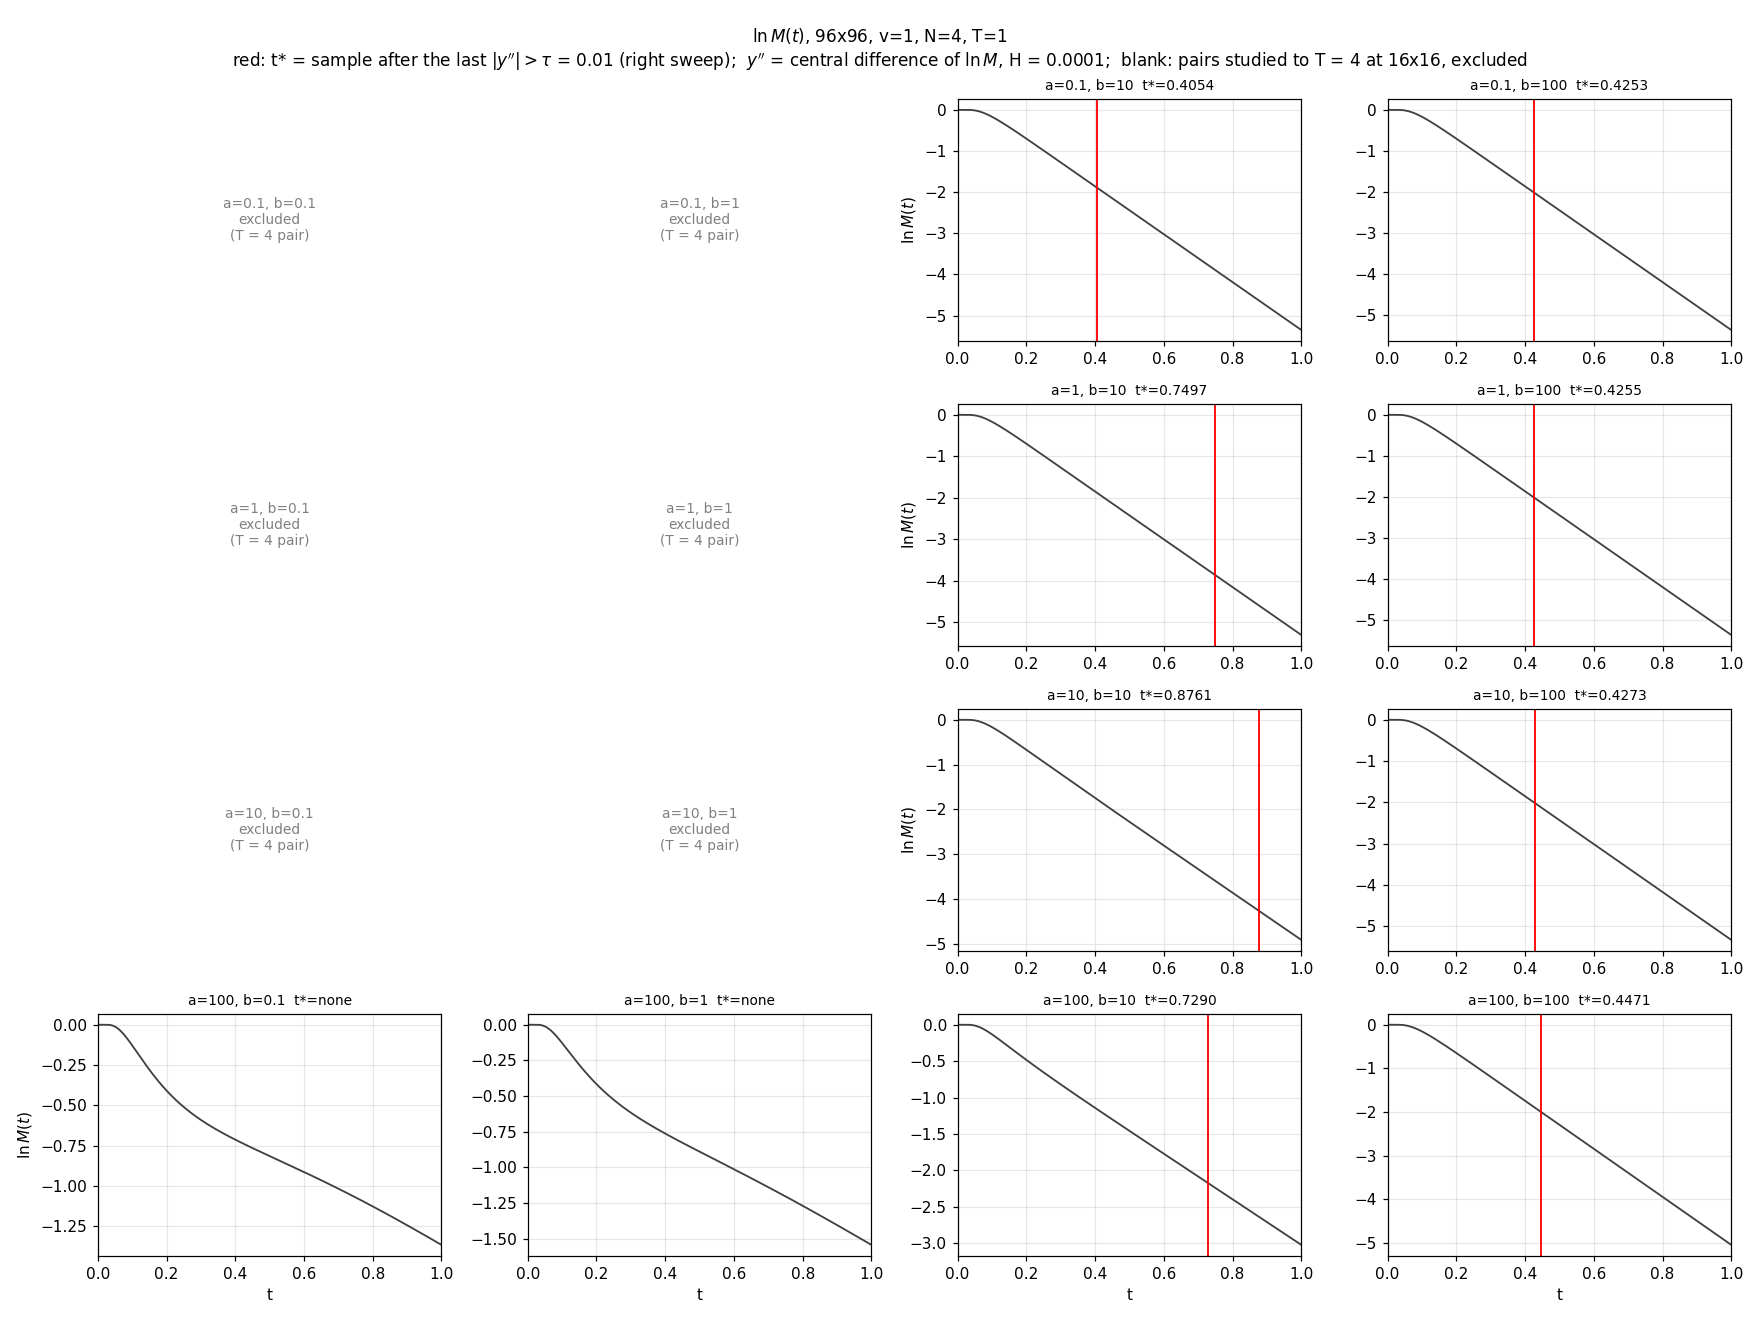
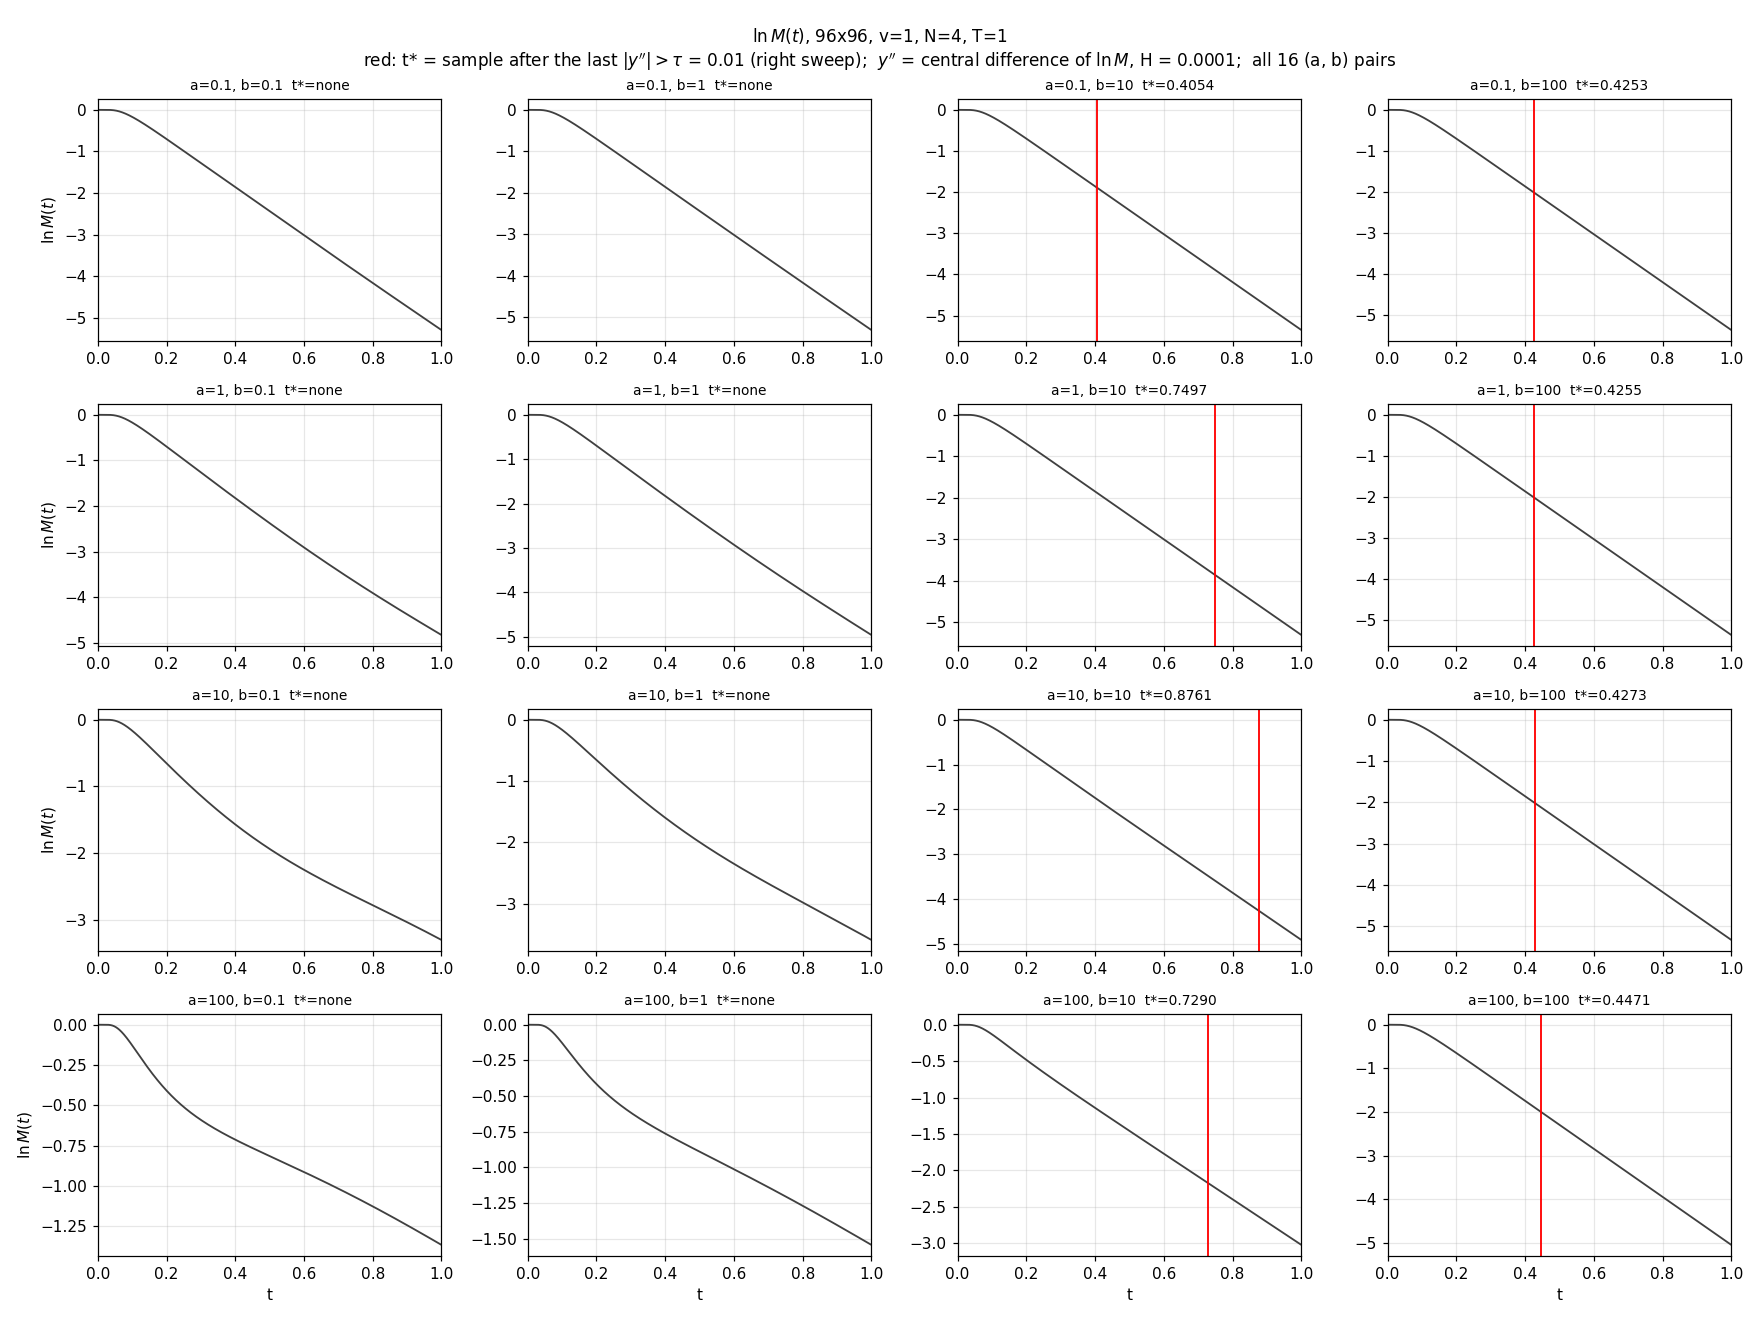
96x96 tau = 0.01 study: all sixteen pairs, kappa criterion, step size shown
Every figure and table now covers all sixteen (a, b) pairs; the separate
additional_pairs/ folder duplicated six of them and is removed.

kappa_criterion/ adds the kappa = |y''|/y'^2 rule at the same tau = 0.01,
with the same central differences (H ~ 1e-4) and right sweep: kappa(t)
itself (the function deciding the criterion) at two y-windows, ln M with
t*, and the t* table including whether >= 0.1 of run follows t*.

Finite-difference plots (y'' and kappa) state the step h = 1.0005e-4
(861 samples x the solver's 5 dt spacing) in the title and in each panel.
README rewritten for the three criteria; scripts default to all pairs.

Claude-Session: https://claude.ai/code/session_01QVUXHCUyhrdRWbdooaMMLs

diff --git a/results/2026-10-07_ab-grid-96x96_tau0.01/scripts/kappa_96.py b/results/2026-10-07_ab-grid-96x96_tau0.01/scripts/kappa_96.py
@@ -1,0 +1,165 @@
+"""The kappa criterion on the 96x96 (a, b) grid, from job 0b8d4022's saved series.
+
+    python kappa_96.py [tau]          default tau = 0.01
+
+kappa(t) = |y''| / y'^2 with y = ln M: the rate at which the local e-folding
+time 1/lambda drifts (lambda = -y'). Same derivative approximation as the rest
+of this study -- central differences across s samples, H = s * h_sample ~ 1e-4:
+
+    y'  = (y[i+s] - y[i-s]) / (2H),   y'' = (y[i+s] - 2 y[i] + y[i-s]) / H^2
+
+and the same right sweep: t* is the sample just after the last kappa > tau,
+so kappa <= tau from t* to the end. (The criterion as used 2026-09-28 to
+2026-10-05 also required at least 0.1 of run after t*; that is reported here as
+a column, not applied.) All sixteen pairs, T = 1.
+"""
+import os, sys
+R = "N:/work/Intracellular-Transport-Computational-Modeling"
+os.environ["MPLBACKEND"] = "Agg"
+sys.path[:0] = [R + "/src/intracellular_transport", R + "/src"]
+
+import numpy as np
+import pandas as pd
+import matplotlib.pyplot as plt
+from launch_functions import launch as L
+
+TAU = float(sys.argv[1]) if len(sys.argv) > 1 else 1e-2
+SP = os.path.dirname(os.path.abspath(__file__))
+OUT = os.path.join(R, "results", f"2026-10-07_ab-grid-96x96_tau{TAU:g}", "kappa_criterion")
+os.makedirs(OUT, exist_ok=True)
+
+G, MCF, T, HOLD = 96, 5, 1.0, 0.1
+A = B = [0.1, 1.0, 10.0, 100.0]
+h = MCF * L.num.compute_dT(G, G)
+s = max(1, int(round(L.CHAR_TIME_DIFF_SPACING / h)))
+H = s * h
+print(f"sample h={h:.4g}  stride s={s}  H={H:.6g}  tau={TAU:g}")
+
+data, rows = {}, []
+for a in A:
+    for b in B:
+        m = np.fromfile(os.path.join(SP, f"tm_a{a:g}_b{b:g}.dat"), dtype=np.float64)
+        n = m.size
+        t = np.arange(n) * h
+        y = np.log(m)
+        d1 = (y[2 * s:] - y[:-2 * s]) / (2 * H)
+        d2 = (y[2 * s:] - 2 * y[s:-s] + y[:-2 * s]) / H ** 2
+        with np.errstate(divide="ignore", invalid="ignore"):
+            kap = np.abs(d2) / d1 ** 2
+        judged = np.arange(s, n - s)
+        over = ~(kap <= TAU)                 # non-finite (y' = 0 at the start) counts as over
+        if over[-1]:
+            ts = None
+        else:
+            k = judged[np.nonzero(over)[0][-1] + 1] if over.any() else judged[0]
+            ts = float(t[k])
+        mstar = None if ts is None else float(m[int(round(ts / h))])
+        full = np.full(n, np.nan)
+        full[s:-s] = kap
+        keep = slice(0, None, s)
+        data[(a, b)] = (t[keep], y[keep], full[keep], ts)
+        rows.append(dict(a=a, b=b, t_star=ts, m_star=mstar, M_at_T=float(m[-1]),
+                         kappa_at_T=float(kap[-1]),
+                         hold_ge_0p1=None if ts is None else bool(T - ts >= HOLD),
+                         tau=TAU))
+        print(f"  a={a:g} b={b:g}: t*={'none' if ts is None else f'{ts:.6f}'}  "
+              f"kappa(T)={kap[-1]:.3g}", flush=True)
+
+pd.DataFrame(rows).to_csv(os.path.join(OUT, f"t_star_kappa_96x96_tau{TAU:g}.csv"), index=False)
+
+fmt = lambda v, f: "none" if v is None else format(v, f)
+cells = [[f"{r['a']:g}", f"{r['b']:g}", fmt(r["t_star"], ".6f"), fmt(r["m_star"], ".6e"),
+          f"{r['M_at_T']:.6e}", f"{r['kappa_at_T']:.3g}",
+          "-" if r["hold_ge_0p1"] is None else ("yes" if r["hold_ge_0p1"] else "no")]
+         for r in rows]
+fig, ax = plt.subplots(figsize=(11, 0.4 * len(cells) + 1.4))
+ax.axis("off")
+tb = ax.table(cellText=cells, colLabels=["a", "b", "t*", "m* = M(t*)", "M(T=1)",
+                                          "kappa(T)", ">= 0.1 run after t*"],
+              loc="center", cellLoc="center")
+tb.auto_set_font_size(False)
+tb.set_fontsize(10)
+tb.scale(1, 1.35)
+ax.set_title(rf"t* by $\kappa = |y''|/y'^2 \leq \tau$ = {TAU:g} (right sweep) -- 96x96, v=1, "
+             f"N=4, T=1 (job 0b8d4022), H={H:.3g}", fontsize=10)
+fig.tight_layout()
+fig.savefig(os.path.join(OUT, f"t_star_table_kappa_96x96_tau{TAU:g}.png"), dpi=130)
+plt.close(fig)
+
+
+def title(k):
+    ts = data[k][3]
+    return f"a={k[0]:g}, b={k[1]:g}  t*=" + ("none" if ts is None else f"{ts:.4f}")
+
+
+def mark(ax, k):
+    if data[k][3] is not None:
+        ax.axvline(data[k][3], color="red", lw=1.2)
+
+
+def step_label(ax):
+    """The finite-difference step, in the panel corner."""
+    ax.text(0.98, 0.04, f"h = {H:.4e}", transform=ax.transAxes, ha="right", va="bottom",
+            fontsize=7, color="0.2",
+            bbox=dict(boxstyle="round,pad=0.2", fc="white", ec="0.7", alpha=0.85))
+
+
+STEP_LINE = (rf"finite-difference step h = {H:.6e}  (= {s} samples $\times$ {h:.6e}, the "
+             rf"solver's sample spacing $5\,\Delta t$)")
+
+
+def kappa_panel(ax, k, top):
+    t, _, kap, _ = data[k]
+    ax.plot(t, kap, lw=1.0, color="C1")
+    ax.axhline(TAU, color="0.3", lw=0.9, ls=":")
+    ax.set_ylim(0, top)
+    mark(ax, k)
+    step_label(ax)
+
+
+def lnm_panel(ax, k, zoom):
+    t, y, _, ts = data[k]
+    ax.plot(t, y, lw=1.2, color="0.25")
+    mark(ax, k)
+    if zoom and ts is not None:
+        yc = float(np.interp(ts, t, y))
+        ax.set_xlim(ts - 0.15, ts + 0.15)
+        ax.set_ylim(yc - 0.5, yc + 0.5)
+        ax.axhline(yc, color="red", lw=0.6, ls=":")
+    elif zoom:
+        ax.text(0.5, 0.92, "no t*: full view", ha="center", va="top", fontsize=8,
+                color="0.4", transform=ax.transAxes)
+
+
+NOTE = (rf"red: t* = sample after the last $\kappa > \tau$ = {TAU:g} (right sweep);  "
+        rf"$\kappa = |y''|/y'^2$, $y = \ln M$, central differences, H = {H:.3g};  all 16 pairs")
+figs = [(f"kappa_96x96_tau{TAU:g}_ylim0.1.png", r"$\kappa(t)$",
+         lambda ax, k: kappa_panel(ax, k, 0.1), r"  (y in [0, 0.1]; dotted = $\tau$)", True),
+        (f"kappa_96x96_tau{TAU:g}_ylim{3 * TAU:g}.png", r"$\kappa(t)$",
+         lambda ax, k: kappa_panel(ax, k, 3 * TAU), rf"  (y in [0, {3 * TAU:g}]; dotted = $\tau$)", True),
+        (f"lnM_kappa_96x96_tau{TAU:g}.png", r"$\ln M(t)$",
+         lambda ax, k: lnm_panel(ax, k, False), "", True),
+        (f"lnM_kappa_96x96_tau{TAU:g}_zoom.png", r"$\ln M(t)$",
+         lambda ax, k: lnm_panel(ax, k, True),
+         r"  (window: t* $\pm$ 0.15, $\ln M(t^*)$ $\pm$ 0.5)", False)]
+for name, ylab, panel, extra, share in figs:
+    fig, axes = plt.subplots(4, 4, figsize=(16, 12), sharex=share)
+    for i, a in enumerate(A):
+        for j, b in enumerate(B):
+            ax = axes[i, j]
+            ax.set_xlim(0, T)
+            panel(ax, (a, b))
+            ax.grid(True, alpha=0.3)
+            ax.set_title(title((a, b)), fontsize=9)
+            if i == 3 or not share:
+                ax.set_xlabel("t")
+            if j == 0:
+                ax.set_ylabel(ylab)
+    head = f"{ylab}, 96x96, v=1, N=4, T=1{extra}"
+    if "kappa_96x96" in name:
+        head += "\n" + STEP_LINE
+    fig.suptitle(f"{head}\n{NOTE}", fontsize=11)
+    fig.tight_layout()
+    fig.savefig(os.path.join(OUT, name), dpi=110)
+    plt.close(fig)
+print(OUT)

diff --git a/results/2026-10-07_ab-grid-96x96_tau0.01/scripts/tau_mask_96.py b/results/2026-10-07_ab-grid-96x96_tau0.01/scripts/tau_mask_96.py
@@ -35,15 +35,19 @@ EXCLUDED = {(10.0, 0.1), (10.0, 1.0), (1.0, 0.1), (1.0, 1.0), (0.1, 0.1), (0.1, 
 
 # "additional" mode: the six pairs studied to T = 4 at 16x16 instead, into a
 # subfolder; the ten main pairs become the blank panels.
-MODE = next((x for x in sys.argv[1:] if x in ("main", "additional")), "main")
+# "all" (default): all sixteen pairs. "main" / "additional": the earlier split.
+MODE = next((x for x in sys.argv[1:] if x in ("all", "main", "additional")), "all")
 T4_PAIRS = set(EXCLUDED)
 if MODE == "additional":
     EXCLUDED = {(x, z) for x in A for z in B} - T4_PAIRS
     OUT = os.path.join(SUB_ROOT, "additional_pairs", SUB_LEAF)
     os.makedirs(OUT, exist_ok=True)
+if MODE == "all":
+    EXCLUDED = set()          # every pair, no blank panels
 BLANK_LABEL = ("excluded\n(T = 4 pair)" if MODE == "main"
                else "in parent folder\n(main T = 1 pair)")
-BLANK_NOTE = ("blank: pairs studied to T = 4 at 16x16, excluded" if MODE == "main"
+BLANK_NOTE = ("all 16 (a, b) pairs" if MODE == "all"
+              else "blank: pairs studied to T = 4 at 16x16, excluded" if MODE == "main"
               else "the six pairs studied to T = 4 at 16x16 (this run: T = 1); blank: main pairs")
 
 h = MCF * L.num.compute_dT(G, G)
@@ -120,6 +124,17 @@ def lnm_zoom_panel(ax, k, clip):
     ax.axhline(yc, color="red", lw=0.6, ls=":")
 
 
+def step_label(ax):
+    """The finite-difference step, in the panel corner."""
+    ax.text(0.98, 0.04, f"h = {H:.4e}", transform=ax.transAxes, ha="right", va="bottom",
+            fontsize=7, color="0.2",
+            bbox=dict(boxstyle="round,pad=0.2", fc="white", ec="0.7", alpha=0.85))
+
+
+STEP_LINE = (rf"finite-difference step h = {H:.6e}  (= {s} samples $\times$ {h:.6e}, the "
+             rf"solver's sample spacing $5\,\Delta t$)")
+
+
 def d2_panel(ax, k, lim):
     t, _, q, ts = data[k]
     ax.plot(t, q, lw=1.0, color="C2")
@@ -130,6 +145,7 @@ def d2_panel(ax, k, lim):
         ax.set_ylim(-lim, lim)
         for v in (-TAU, TAU):
             ax.axhline(v, color="0.4", lw=0.8, ls=":")
+    step_label(ax)
 
 
 NOTE = (rf"red: t* = sample after the last $|y''| > \tau$ = {TAU:g} (right sweep);  "
@@ -167,7 +183,10 @@ for name, ylab, panel, lim, extra in figs:
             if j == 0 or (i, j - 1) in [(A.index(x), B.index(y)) for x, y in EXCLUDED]:
                 ax.set_ylabel(ylab)
             ax.tick_params(labelbottom=True)
-    fig.suptitle(f"{ylab}, 96x96, v=1, N=4, T=1{extra}\n{NOTE}", fontsize=11)
+    head = f"{ylab}, 96x96, v=1, N=4, T=1{extra}"
+    if panel is d2_panel:
+        head += "\n" + STEP_LINE
+    fig.suptitle(f"{head}\n{NOTE}", fontsize=11)
     fig.tight_layout()
     fig.savefig(os.path.join(OUT, name), dpi=110)
     plt.close(fig)

diff --git a/results/2026-10-07_ab-grid-96x96_tau0.01/scripts/line_intercept_96.py b/results/2026-10-07_ab-grid-96x96_tau0.01/scripts/line_intercept_96.py
@@ -31,15 +31,19 @@ EXCLUDED = {(10.0, 0.1), (10.0, 1.0), (1.0, 0.1), (1.0, 1.0), (0.1, 0.1), (0.1, 
 
 # "additional" mode: the six pairs studied to T = 4 at 16x16 instead, into a
 # subfolder; the ten main pairs become the blank panels.
-MODE = next((x for x in sys.argv[1:] if x in ("main", "additional")), "main")
+# "all" (default): all sixteen pairs. "main" / "additional": the earlier split.
+MODE = next((x for x in sys.argv[1:] if x in ("all", "main", "additional")), "all")
 T4_PAIRS = set(EXCLUDED)
 if MODE == "additional":
     EXCLUDED = {(x, z) for x in A for z in B} - T4_PAIRS
     OUT = os.path.join(SUB_ROOT, "additional_pairs", SUB_LEAF)
     os.makedirs(OUT, exist_ok=True)
+if MODE == "all":
+    EXCLUDED = set()          # every pair, no blank panels
 BLANK_LABEL = ("excluded\n(T = 4 pair)" if MODE == "main"
                else "in parent folder\n(main T = 1 pair)")
-BLANK_NOTE = ("blank: pairs studied to T = 4 at 16x16, excluded" if MODE == "main"
+BLANK_NOTE = ("all 16 (a, b) pairs" if MODE == "all"
+              else "blank: pairs studied to T = 4 at 16x16, excluded" if MODE == "main"
               else "the six pairs studied to T = 4 at 16x16 (this run: T = 1); blank: main pairs")
 
 h = MCF * L.num.compute_dT(G, G)
@@ -116,7 +120,7 @@ for name, zoom, extra in [("lnM_line_intercept_96x96.png", False, ""),
             ax.set_title(title((a, b)), fontsize=9)
             ax.set_xlabel("t")
             ax.set_ylabel(r"$\ln M(t)$")
-    first = (3, 3) if MODE == "main" else next(
+    first = (3, 3) if MODE in ("main", "all") else next(
         (i, j) for i, x in enumerate(A) for j, z in enumerate(B) if (x, z) not in EXCLUDED)
     axes[first].legend(fontsize=7, loc="lower left")
     fig.suptitle(f"ln M(t), 96x96, v=1, N=4, T=1{extra}\n"

diff --git a/results/2026-10-07_ab-grid-96x96_tau0.01/README.md b/results/2026-10-07_ab-grid-96x96_tau0.01/README.md
@@ -1,57 +1,67 @@
 # t* on the 96×96 (a, b) grid, τ = 0.01 — 2026-10-07
 
-Source: job `0b8d4022` (96×96, v = 1, N_LIST = [0, 24, 48, 72], T = 1, GPU).
-Its checkpoints keep each pair's total-mass series (`timeseries_4.dat`, M
-itself, float64, one sample per 5 steps); everything here is computed from
-those, with no re-solve. The six pairs studied to T = 4 at 16×16
-((10,0.1), (10,1), (1,0.1), (1,1), (0.1,0.1), (0.1,1)) are excluded and shown
-as blank panels.
+Source: job `0b8d4022` (96×96, v = 1, N_LIST = [0, 24, 48, 72], T = 1, GPU),
+all sixteen pairs (a, b) ∈ {0.1, 1, 10, 100}². Its checkpoints keep each
+pair's total-mass series (`timeseries_4.dat`, M itself, float64, one sample per
+5 steps); everything here is computed from those, with no re-solve.
 
-## Right-sweep mask (the committed criterion, `launch._char_time_onset`)
+Three criteria, one folder each. All use y = ln M with central differences
+across s = 861 samples (H ≈ 1.0e-4), and the same right sweep: t* is the sample
+just after the last one where the criterion's function exceeds τ = 0.01.
 
-y = ln M; y″ is the second-order central difference across s = 861 samples,
-H ≈ 1.0e-4. l(t) = 1 where |y″| ≤ τ = 0.01; t* is the sample just after the
-last l = 0, so |y″| ≤ τ from t* to T.
+## Right-sweep |y″| ≤ τ (this folder; the committed criterion, `launch._char_time_onset`)
 
-- `t_star_96x96_tau0.01.csv`, `t_star_table_96x96_tau0.01.png` — t*, m* = M(t*),
-  M(T = 1) (CSV also has the fitted slope and τ)
+| (a, b) with a t* | t* | | (a, b) without |
+|---|---|---|---|
+| (0.1, 10), (0.1, 100), (1, 100), (10, 100) | 0.405–0.427 | | all six with b ≤ 1 at a ≤ 10 |
+| (100, 100) | 0.447 | | (100, 0.1), (100, 1) |
+| (100, 10), (1, 10), (10, 10) | 0.729, 0.750, 0.876 | | |
+
+The eight pairs without t* still have |y″| well above τ at T = 1 (oscillating
+for b ≤ 1, a ≤ 10; still bending at −0.2 to −0.7 for a = 100, b ≤ 1). At 16×16
+the b ≤ 1 pairs needed T ≈ 4; (100, 0.1) and (100, 1) are also strongly
+grid-dependent (late decay rate ~0.4 at 16×16, ~0.6 at 32×32, ~1.2 at 96×96).
+
+- `t_star_96x96_tau0.01.csv`, `t_star_table_96x96_tau0.01.png` — t*,
+  m* = M(t*), M(T = 1) (CSV also has the fitted slope and τ)
 - `lnM_96x96_tau0.01.png` — ln M with t* in red; `_zoom` windows each panel to
   t* ± 0.15 and ln M(t*) ± 0.5 (`_zoom_clipped` stops at [0, T])
-- `second_derivative_96x96_tau0.01.png` — y″, no zoom; `_ylim0.3/0.2/0.1` —
-  y in ±0.3 / ±0.2 / ±0.1 with ±τ dotted
+- `second_derivative_96x96_tau0.01.png` — y″, full range; `_ylim0.3/0.2/0.1`
+  — y in ±0.3 / ±0.2 / ±0.1 with ±τ dotted
 
-(100, 0.1) and (100, 1) have no t*: y″ is still −0.2 to −0.7 at T = 1. These
-two pairs are strongly grid-dependent (late decay rate ~0.4 at 16×16, ~0.6 at
-32×32, ~1.2 at 96×96); at 16×16 they settle just before T, at 96×96 they do
-not.
+## `kappa_criterion/` — κ = |y″| / y′² ≤ τ
 
-## `line_intercept_criterion/` — the original definition, for comparison
+The criterion used 2026-09-28 to 2026-10-05, with τ = 0.01 and the derivatives
+above (y′ = (y[i+s] − y[i−s]) / 2H). κ is the rate at which the local e-folding
+time 1/λ drifts (λ = −y′). The earlier version also required ≥ 0.1 of run
+after t*; here that is a column, not applied.
+
+- `kappa_96x96_tau0.01_ylim0.1.png`, `_ylim0.03.png` — κ(t), the function
+  that decides the criterion, with τ dotted and t* in red
+- `lnM_kappa_96x96_tau0.01.png` and `_zoom.png` — ln M with t*
+- `t_star_kappa_96x96_tau0.01.csv`, `t_star_table_kappa_96x96_tau0.01.png` —
+  t*, m*, M(T), κ(T) and whether ≥ 0.1 of run follows t*
+
+κ gives a t* for ten pairs: 0.274–0.301 for b ≥ 10 (and (0.1, 1)), 0.494 for
+(10, 10), 0.574 for (100, 10), and 0.997 for (0.1, 0.1) — the last only
+because κ dips just under τ in the final samples (flagged "no" in the 0.1-run
+column). Dividing by y′² makes κ smaller than |y″| wherever the decay is fast
+(|y′| ≈ 5), so κ t* is earlier than |y″| t* for b ≥ 10.
+
+## `line_intercept_criterion/` — the original definition
 
 A line through log10 M at t = 0.4 and t = 0.5, extended to M = 1
-(t* = −intercept/slope); old m* = M(10 t*). t* ≈ 0.071–0.083 for most pairs,
-0.038 for (100, 10), and negative for (100, 0.1) and (100, 1).
-`lnM_line_intercept_96x96.png` (with the line and its two points) and
-`_zoom.png` (t* ± 0.15, ln M in [−0.5, 0.5]); table in
-`t_star_line_intercept_96x96.csv`.
-
-## `additional_pairs/` — the six T = 4 pairs, at T = 1
-
-The same analysis (both criteria, same file names) for (10, 0.1), (10, 1),
-(1, 0.1), (1, 1), (0.1, 0.1), (0.1, 1), from the same job's T = 1 series;
-the ten main pairs are the blank panels there.
-
-- Right-sweep mask, τ = 0.01: **no t\* for any of the six** — |y″| is still
-  far above τ at T = 1 (the curves oscillate through zero and are still
-  0.15 to beyond 0.3 in magnitude at the end). At 16×16 these needed T = 4;
-  at 96×96 they need a longer run as well.
-- Line intercept: t\* = 0.079 / 0.079 / 0.068 / 0.071 for (0.1, 0.1),
-  (0.1, 1), (1, 0.1), (1, 1), and negative (−0.027, −0.002) for (10, 0.1),
-  (10, 1).
+(t* = −intercept/slope); old m* = M(10 t*). t* ≈ 0.068–0.083 for most pairs,
+0.038 for (100, 10), and negative for (10, 0.1), (10, 1), (100, 0.1), (100, 1).
+`lnM_line_intercept_96x96.png` (with the line and its two points), `_zoom.png`
+(t* ± 0.15, ln M in [−0.5, 0.5]), and `t_star_line_intercept_96x96.csv`.
 
 ## Reproducing
 
-`scripts/tau_mask_96.py [tau] [main|additional]` and
-`scripts/line_intercept_96.py [main|additional]` expect the
-`tm_a{a}_b{b}.dat` files (download from
+`scripts/tau_mask_96.py [tau]`, `scripts/kappa_96.py [tau]` and
+`scripts/line_intercept_96.py` expect the sixteen `tm_a{a}_b{b}.dat` files
+(download from
 `/jobs/0b8d4022/outputs/checkpoints/ab_grid_char_time_a{a}_b{b}/timeseries_4.dat`)
-next to the script.
+next to the script. All three cover the sixteen pairs; `tau_mask_96.py` and
+`line_intercept_96.py` also take `main` / `additional` to reproduce the earlier
+ten / six split.
